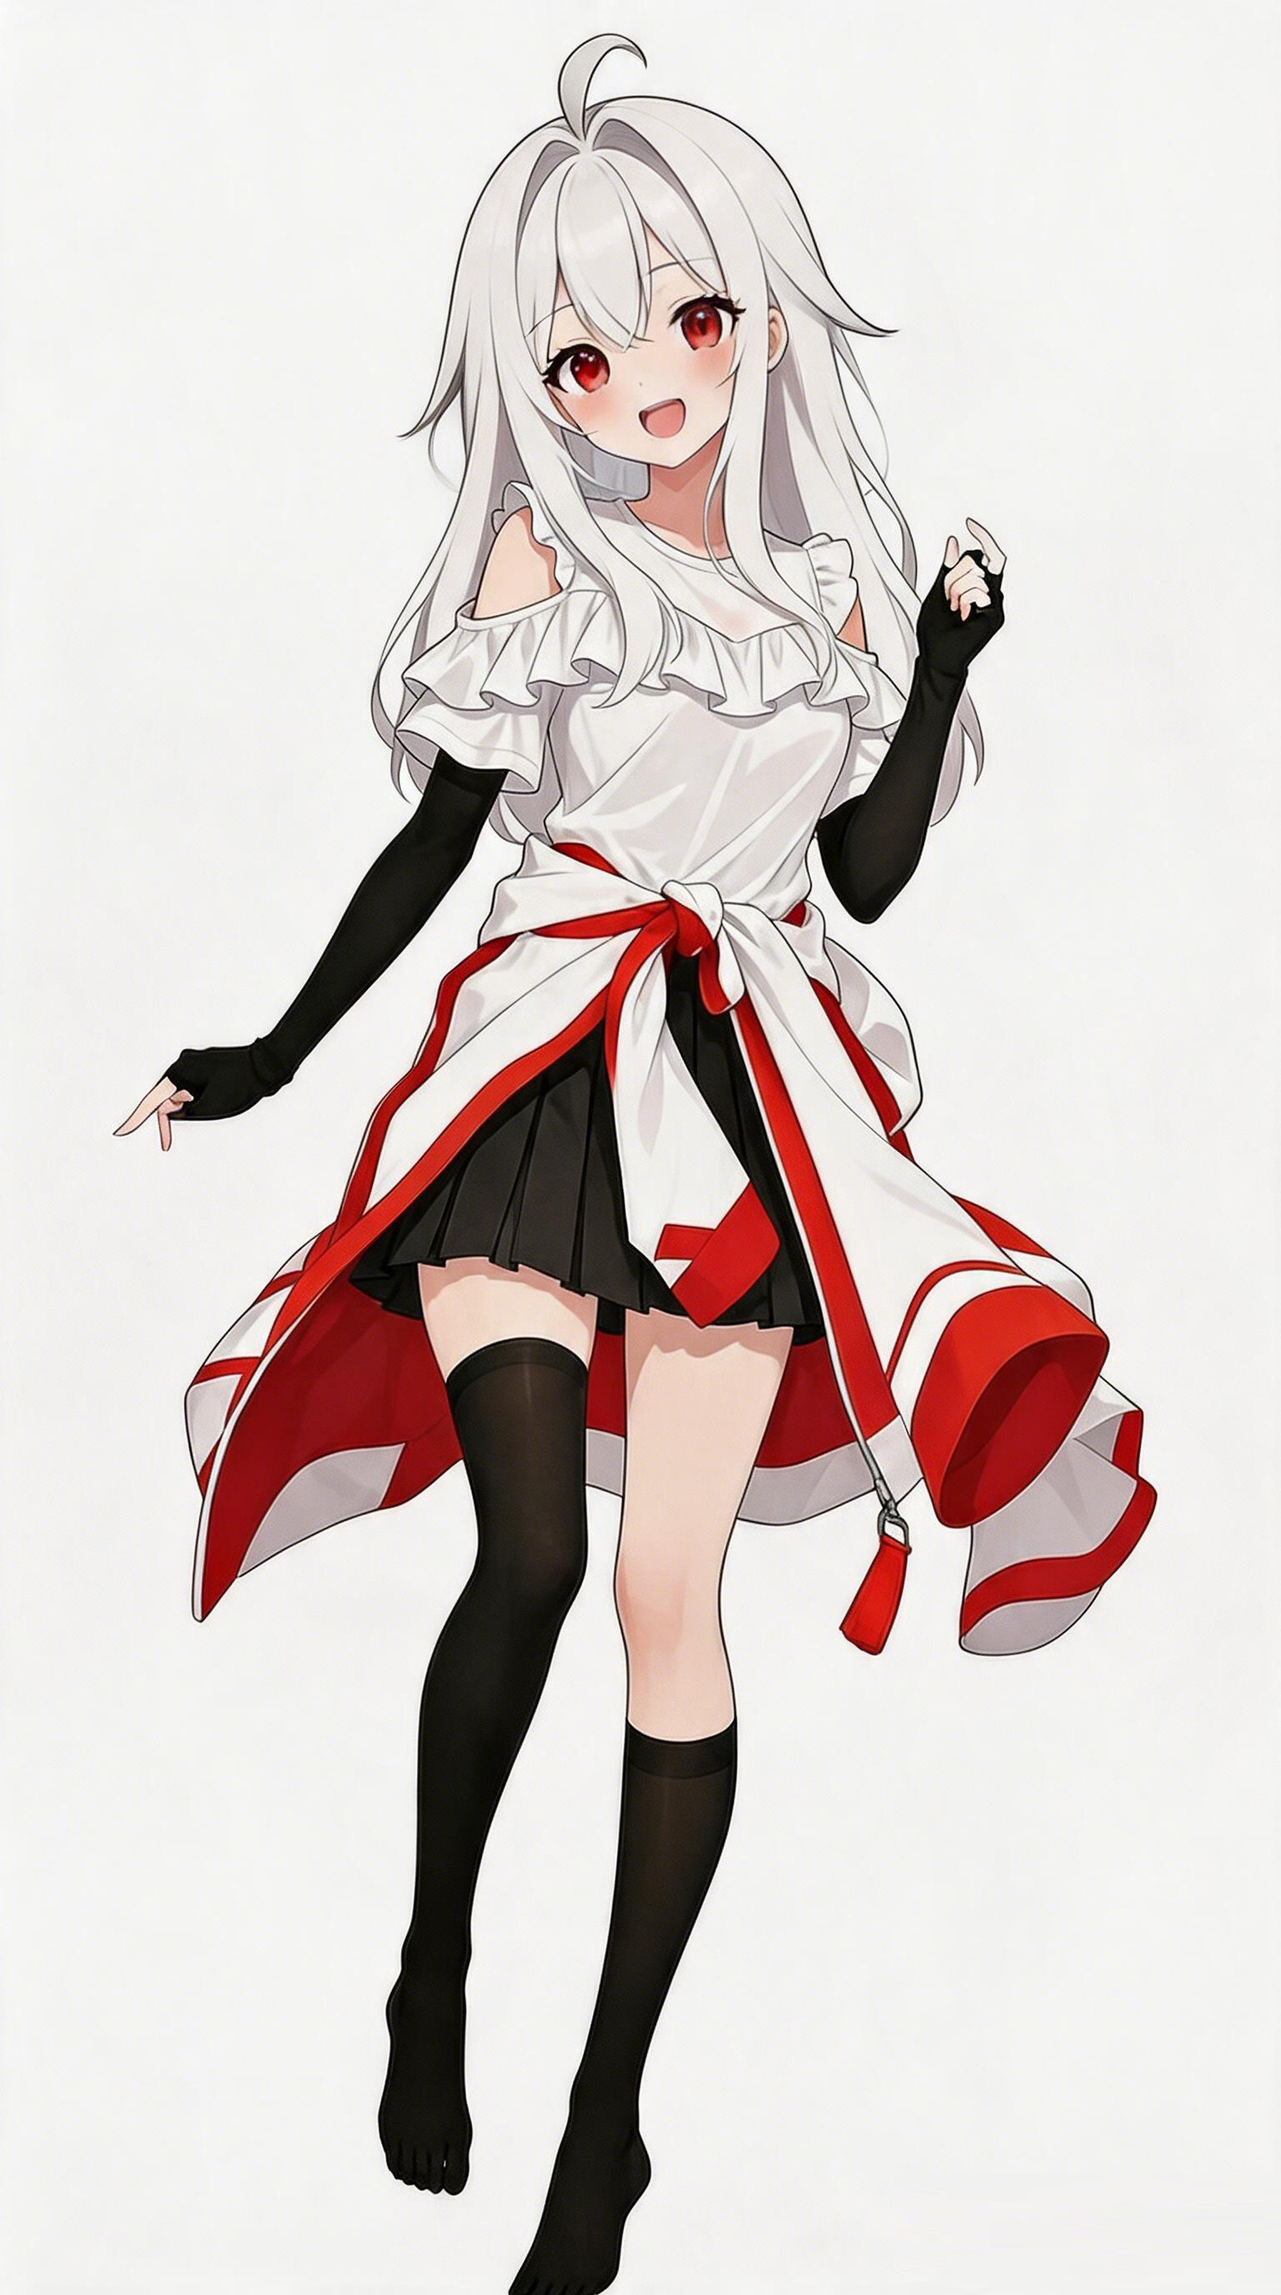
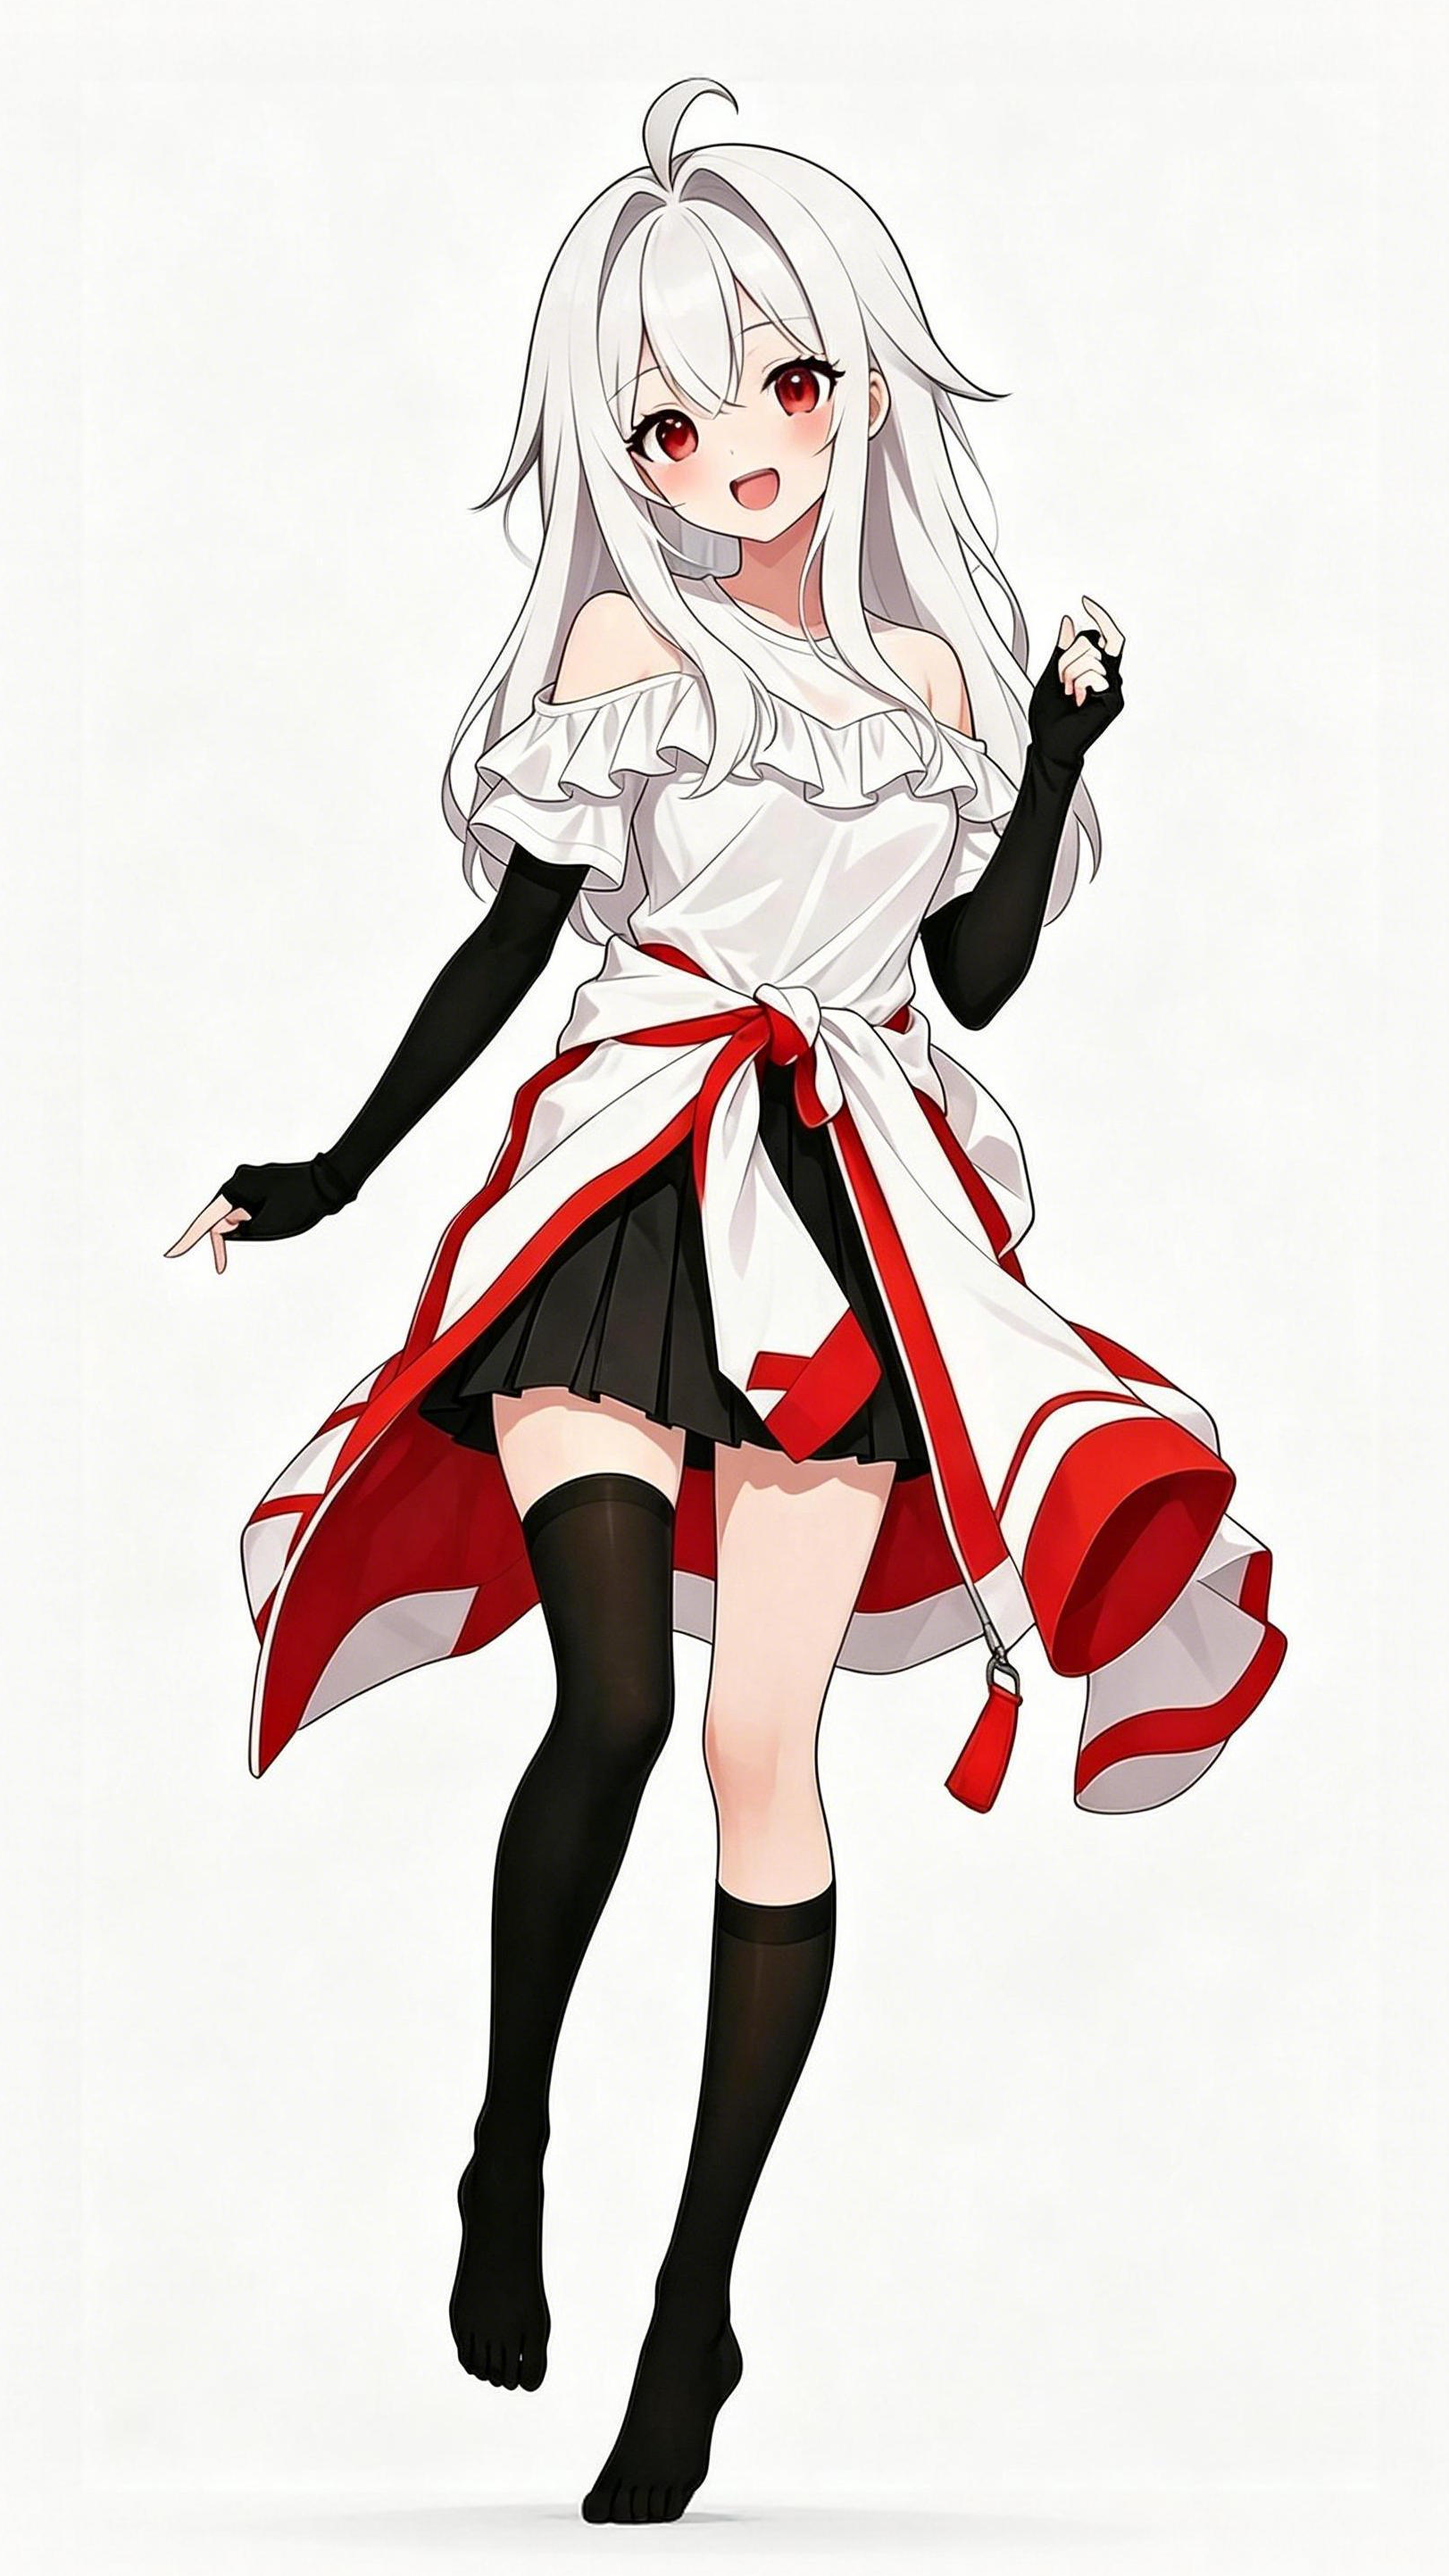
-

diff --git a/v1.0-[Quievis]/README.md b/v1.0-[Quievis]/README.md
@@ -21,7 +21,7 @@ for_the_zero在互联网的一个化身
 | 下衣 | 其实穿着短裤，只是被遮住了~ |
 | 腿脚 | 非常光滑可口的腿，腿部没什么限制，或许可以有丝袜、腿套之类的，鞋子也不限定 |
 | 服饰 | 我不会设计服饰，上面这只是默认服装，可更换~ |
-| 身材 | 瘦瘦小小的，身体纤细，很好抱住 |
+| 身材 | 瘦瘦小小的，身体纤细，很好抱住，设定身高🈷165cm体重约35kg  |
 | 设计核心 | 融合可爱、帅气~~甚至有点涩欲~~的~~呆萌会发情的~~青春小猫娘 |
 
 ~~最初想做一个黑暗恶魔猫娘的，结果因为恶魔角与猫耳之间的问题，最后只留下了黑色系~~
